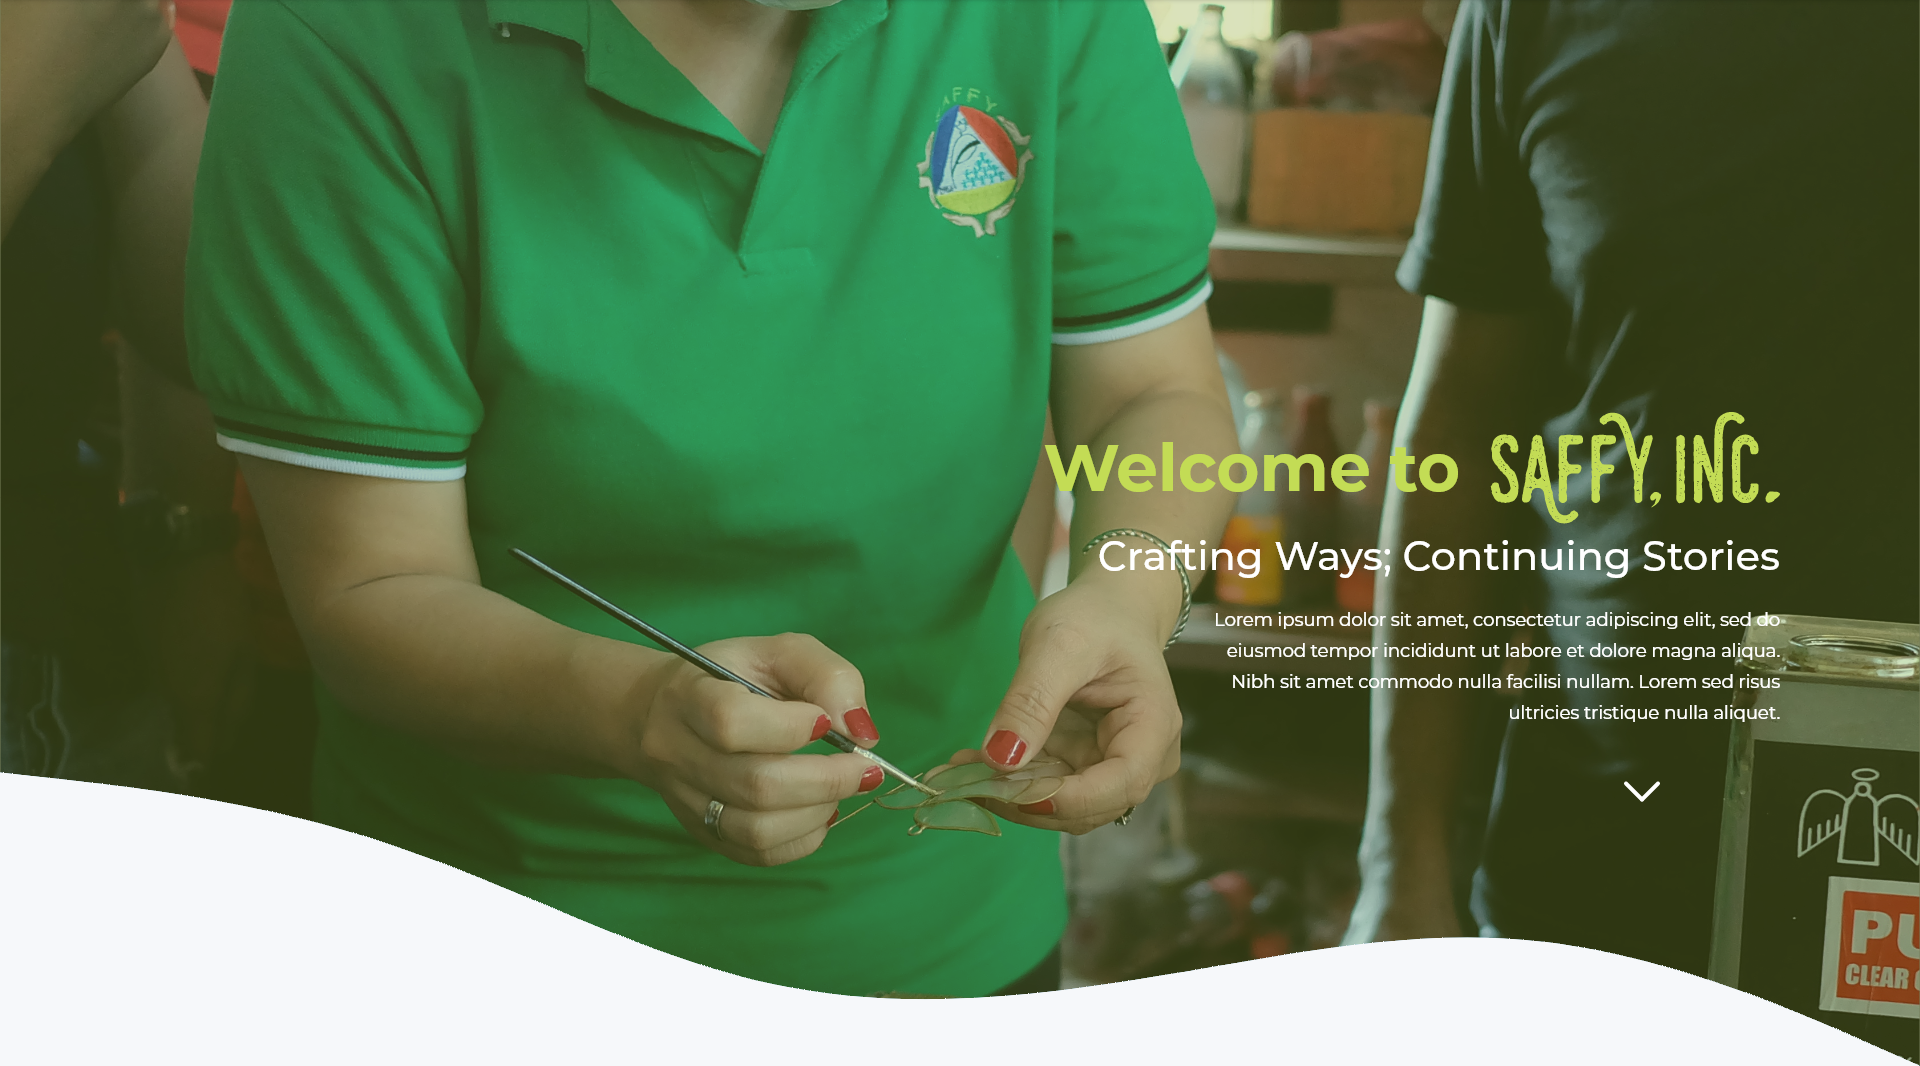
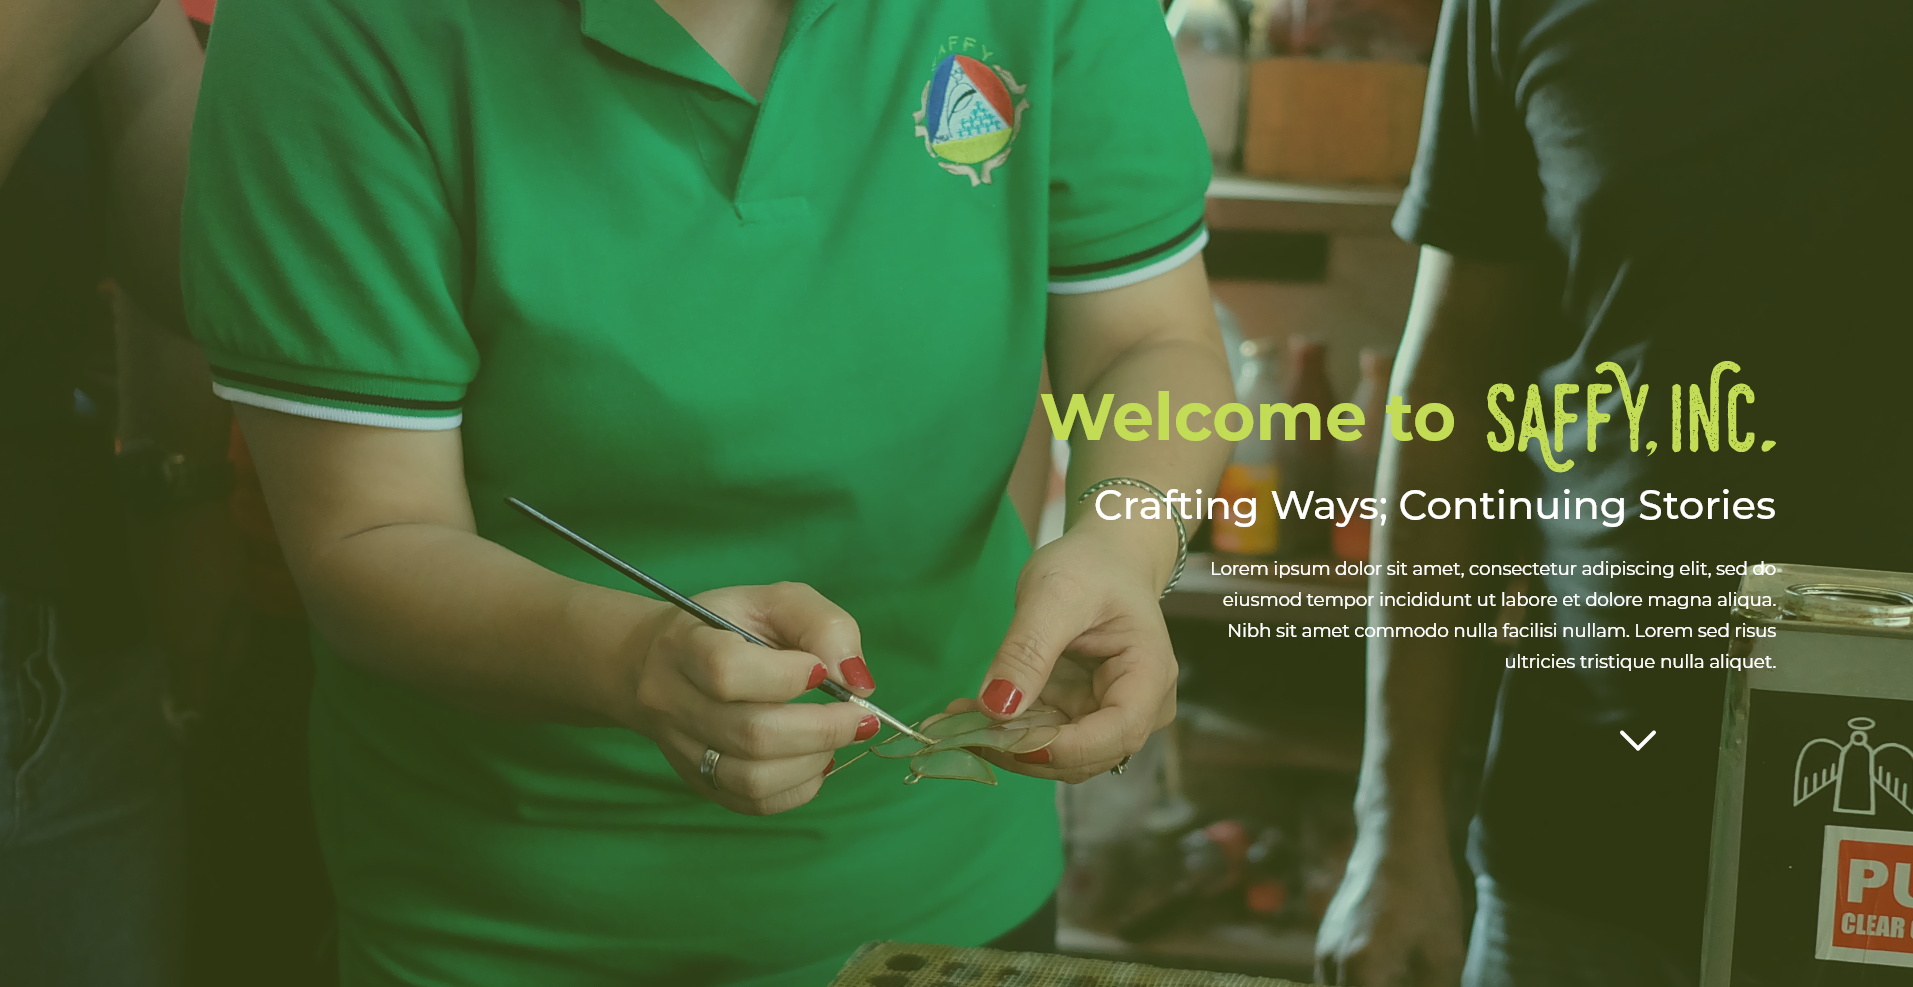
Added cool stuff

diff --git a/index.html b/index.html
@@ -1,3 +1,4 @@
+<!DOCTYPE html>
 <html lang="en">
 
 <head>
@@ -22,7 +23,8 @@
     </nav>
     <div class="img-overlay-wrap">
         <div class="headerImage"></div>
-        <svg xmlns="http://www.w3.org/2000/svg" viewBox="0 0 1440 320"><path fill="#f6f8fa" fill-opacity="1" d="M0,224L34.3,229.3C68.6,235,137,245,206,256C274.3,267,343,277,411,272C480,267,549,245,617,224C685.7,203,754,181,823,192C891.4,203,960,245,1029,256C1097.1,267,1166,245,1234,224C1302.9,203,1371,181,1406,170.7L1440,160L1440,320L1405.7,320C1371.4,320,1303,320,1234,320C1165.7,320,1097,320,1029,320C960,320,891,320,823,320C754.3,320,686,320,617,320C548.6,320,480,320,411,320C342.9,320,274,320,206,320C137.1,320,69,320,34,320L0,320Z"></path></svg>
+        <svg xmlns="http://www.w3.org/2000/svg" viewbox="0 0 1440 320"><path fill="#f6f8fa" fill-opacity="1" d="M0,224L34.3,229.3C68.6,235,137,245,206,256C274.3,267,343,277,411,272C480,267,549,245,617,224C685.7,203,754,181,823,192C891.4,203,960,245,1029,256C1097.1,267,1166,245,1234,224C1302.9,203,1371,181,1406,170.7L1440,160L1440,320L1405.7,320C1371.4,320,1303,320,1234,320C1165.7,320,1097,320,1029,320C960,320,891,320,823,320C754.3,320,686,320,617,320C548.6,320,480,320,411,320C342.9,320,274,320,206,320C137.1,320,69,320,34,320L0,320Z"></path></svg>
+        <h1 class="test">Welcome to SAFFY INC</h1>
     </div>
     <article>
         <h3>KNOW OUR PRODUCTS AND THEIR CRAFTS!</h3>

diff --git a/styles.css b/styles.css
@@ -15,16 +15,10 @@ p {
 }
 
 nav {
-    <<<<<<< HEAD height: 50px;
-    background-color: #F6F8FA;
-    /* box-shadow: 0px 10px 5px #1A1B1D; */
-    margin-top: 5px;
-    margin-bottom: 10px;
-    =======margin: 0;
+    margin: 0;
     height: 50px;
     background-color: #f6f8fa;
     box-shadow: 0px 10px 5px #1A1B1D;
-    >>>>>>>main
 }
 
 nav ul {
@@ -68,31 +62,34 @@ footer {
 }
 
 .img-overlay-wrap {
-    width: 100%;
+    min-width: 100%;
+    width: auto;
     position: relative;
     display: inline-block;
     /* <= shrinks container to image size */
 }
 
 .headerImage {
-    /* <= optional, for responsiveness
-    display: block;
-    width: 100%; */
     /* The image used */
     background-image: url("static/header.png");
     /* Set a specific height */
-    height: 50vw;
+    min-height: 50vw;
     /* Create the parallax scrolling effect */
     background-attachment: fixed;
     background-position: center;
     background-repeat: no-repeat;
     background-size: cover;
-    width: 100%;
 }
 
 .img-overlay-wrap svg {
     position: absolute;
-    top: 28vw;
+    top: 57%;
+}
+
+.test {
+    position: absolute;
+    right: 10vw;
+    top: 30%;
 }
 
 footer {
